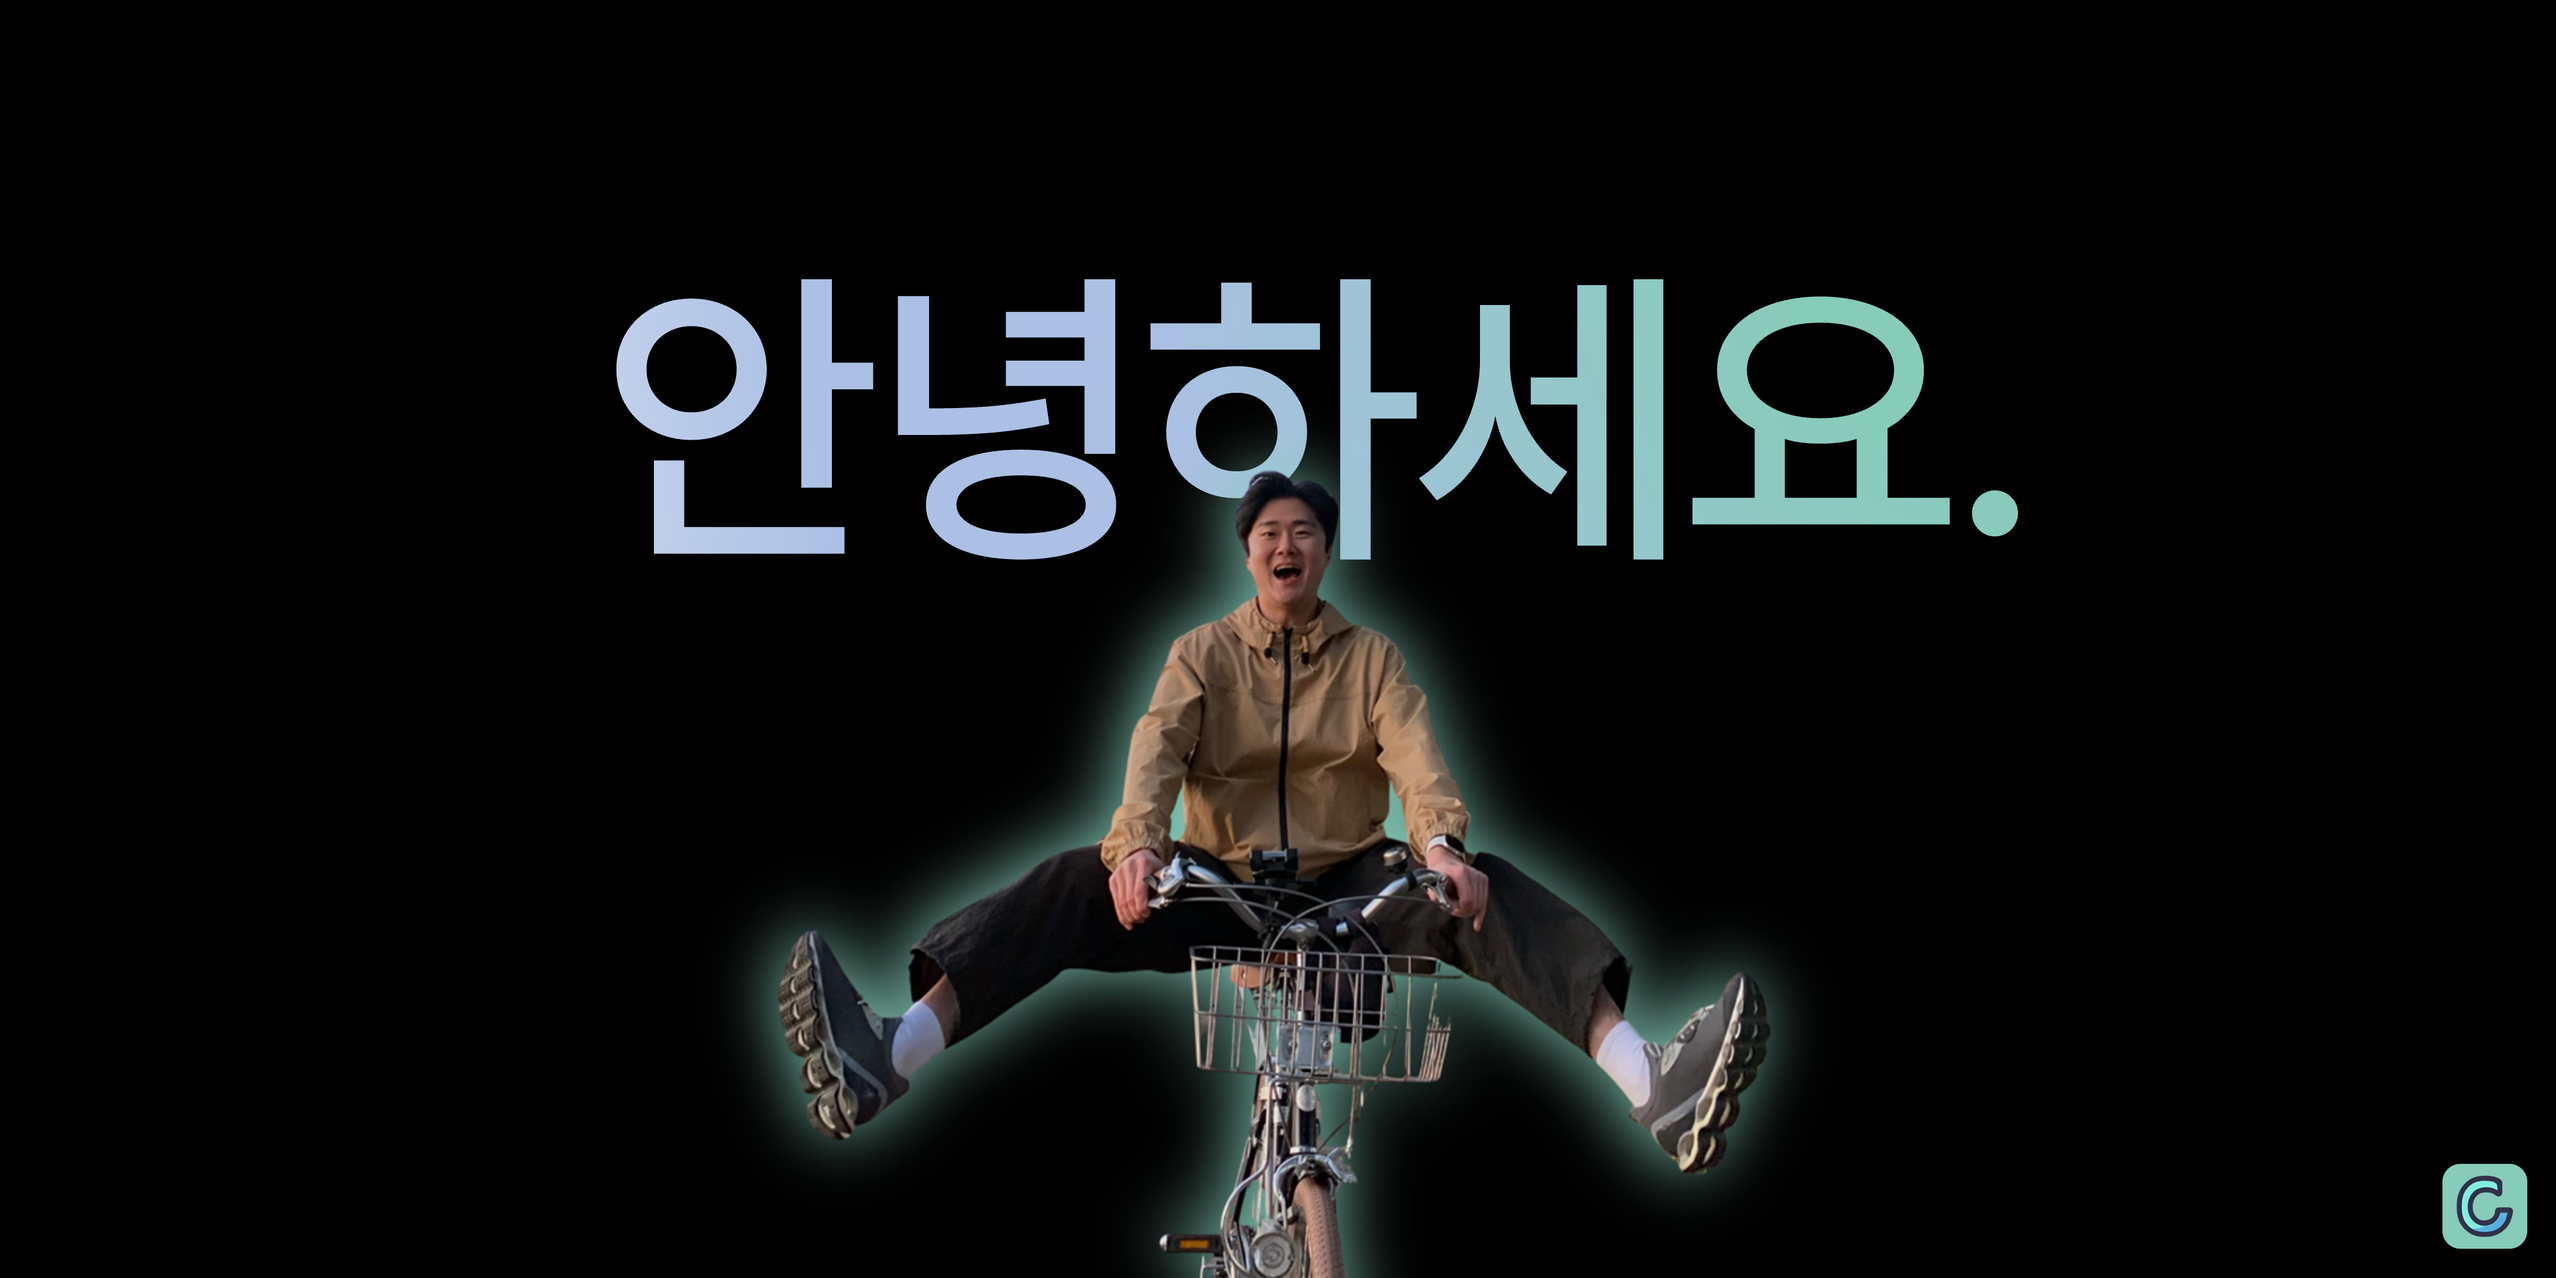
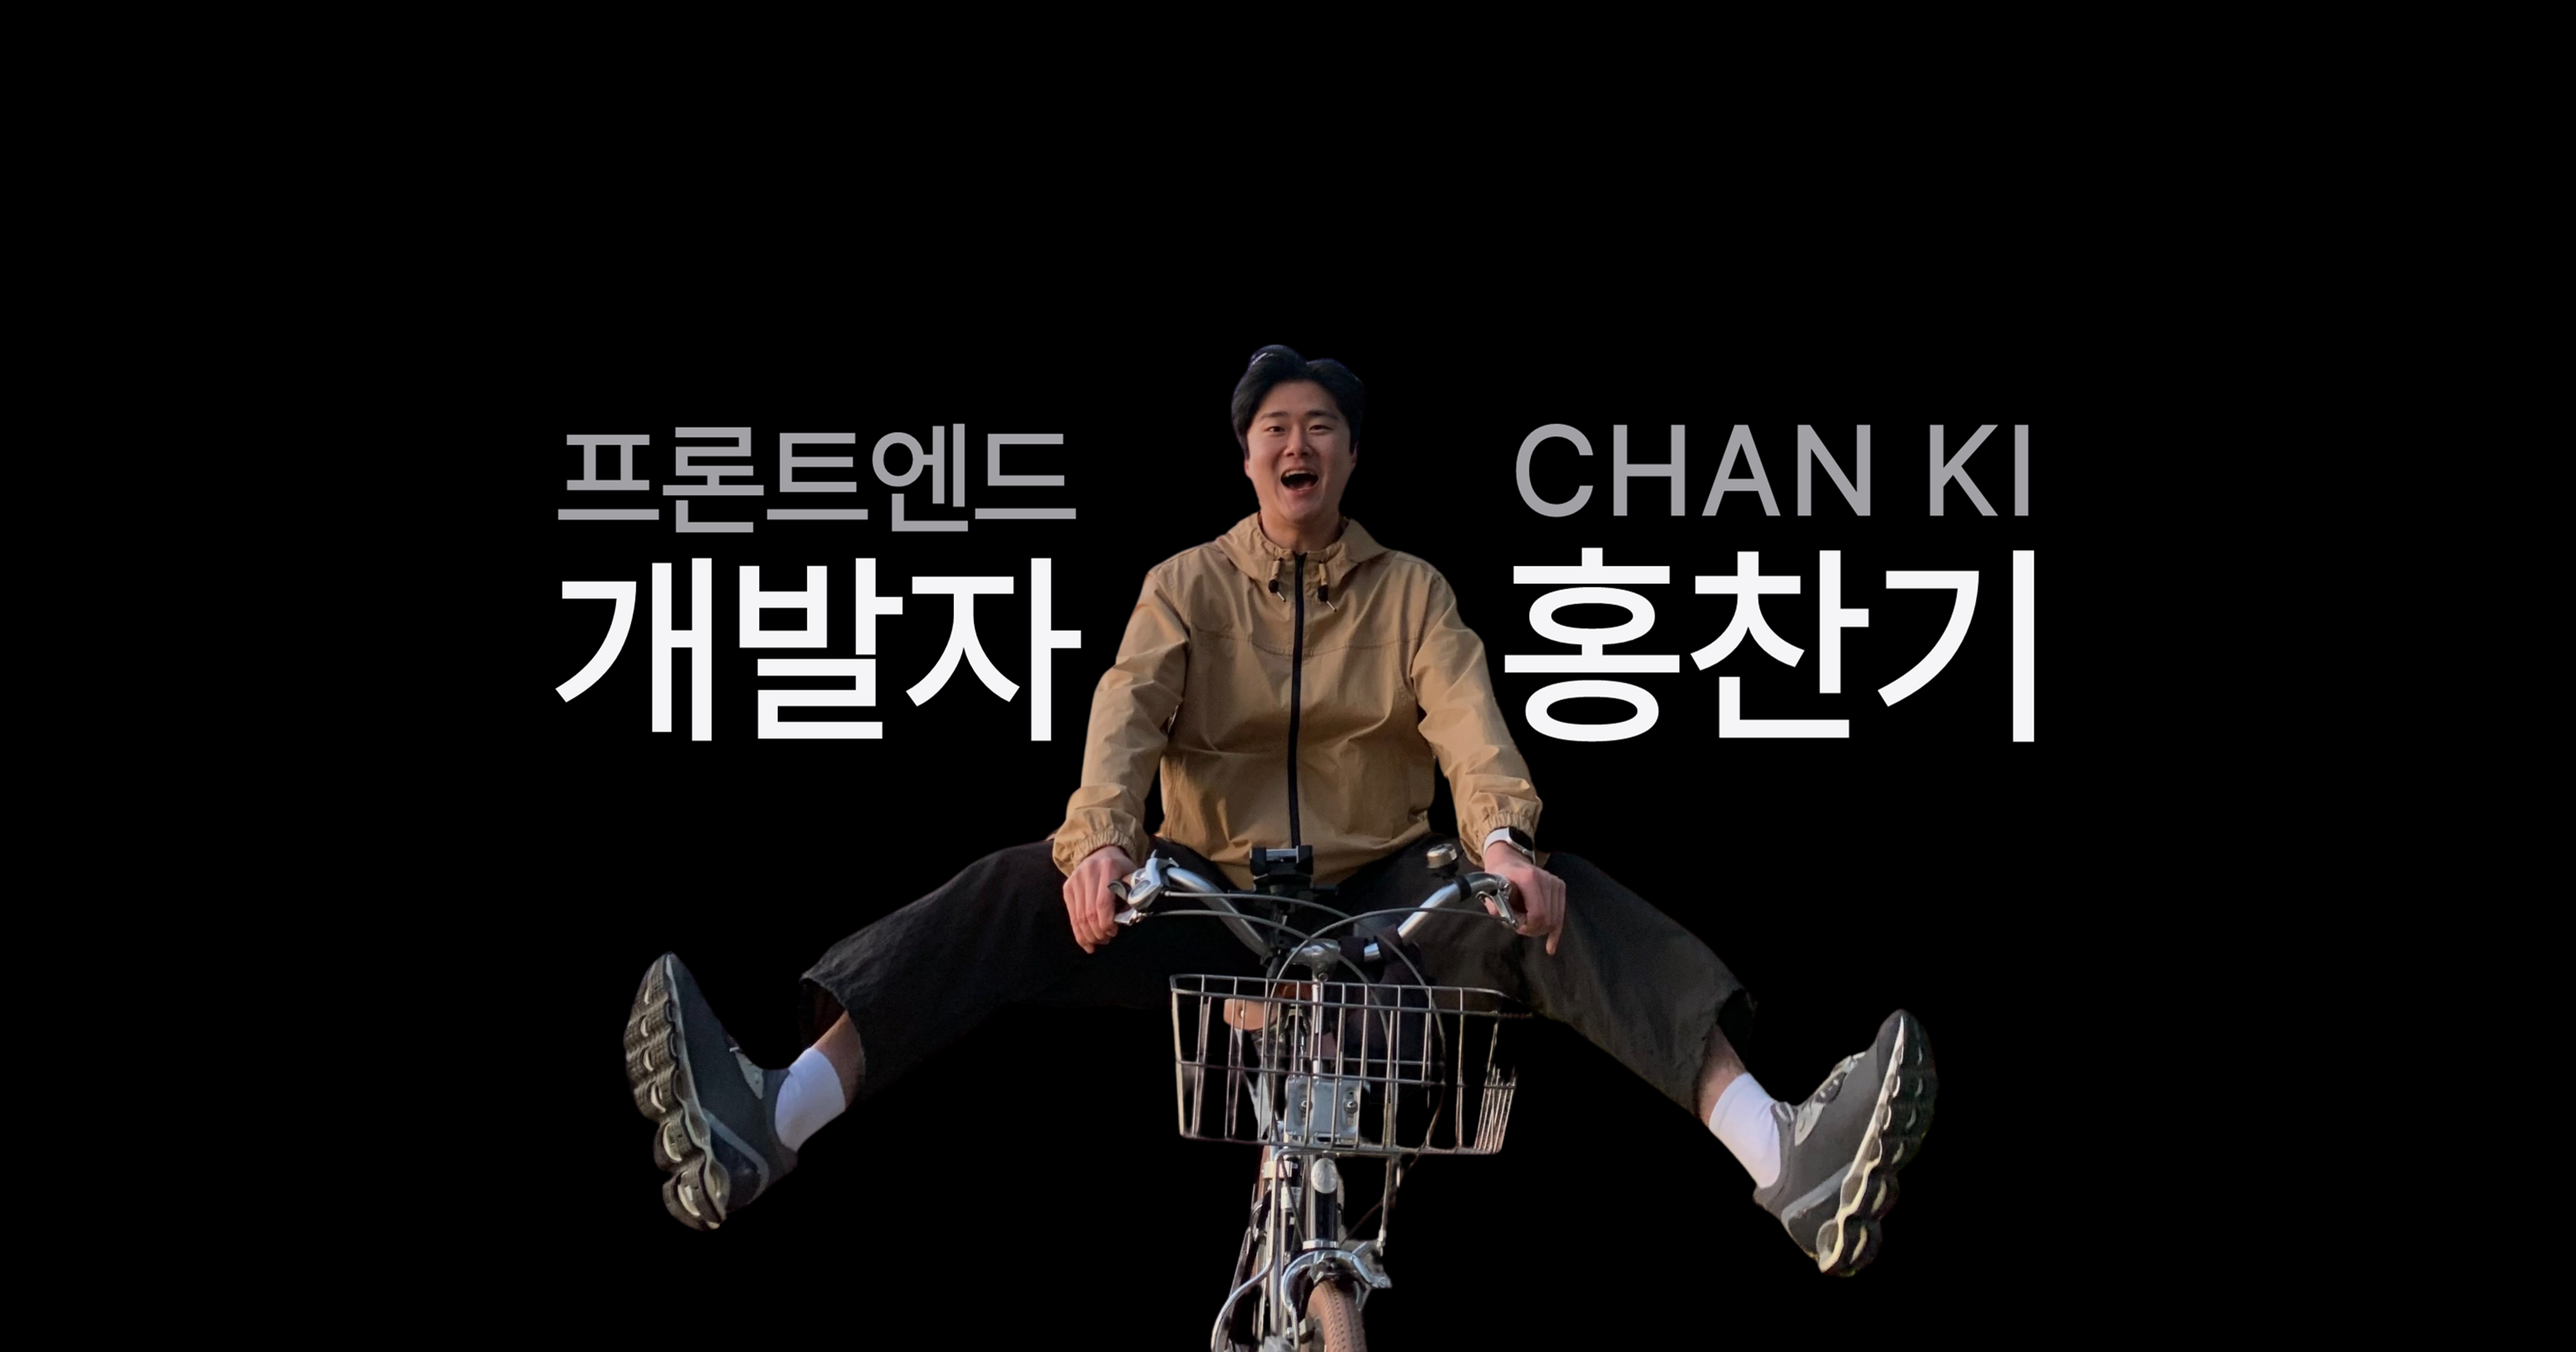
test

Changed region(s): [[0.218, 0.218, 0.8099, 1.0], [0.9345, 0.9033, 0.9968, 0.9968]]

diff --git a/src/page/Home.tsx b/src/page/Home.tsx
@@ -20,24 +20,28 @@ function Home({ headerGlobalNavHeight, headerLocalNavHeight }: { headerGlobalNav
         const helloHeight = headerGlobalNavHeight + headerLocalNavHeight + hello.current.offsetHeight - window.innerHeight; // hello컴포넌트가 끝나는 지점까지의 스크롤롤 높이
         if (window.scrollY < helloHeight * 0.1) {
           helloImg.current.style.top = `${(window.innerHeight - helloImg.current.offsetHeight) / 2}px`;
+          intro.current.style.width = `${profileImg.current.offsetWidth}px`;
           intro.current.style.bottom = `-${intro.current.offsetHeight}px`;
           setHelloImgStyleTag('active-one');
           setProfileImgStyleTag(undefined);
           setIntroStyleTag(undefined);
         } else if (window.scrollY >= helloHeight * 0.1 && window.scrollY < helloHeight * 0.4) {
           helloImg.current.style.top = `${(window.innerHeight - helloImg.current.offsetHeight) / 2}px`;
+          intro.current.style.width = `${profileImg.current.offsetWidth}px`;
           intro.current.style.bottom = `-${intro.current.offsetHeight}px`;
           setHelloImgStyleTag('active-two');
           setProfileImgStyleTag(undefined);
           setIntroStyleTag(undefined);
         } else if (window.scrollY >= helloHeight * 0.4 && window.scrollY < helloHeight) {
           helloImg.current.style.top = `${(window.innerHeight - helloImg.current.offsetHeight) / 2}px`;
+          intro.current.style.width = `${profileImg.current.offsetWidth}px`;
           intro.current.style.bottom = `${profileImg.current.offsetHeight * 0.6}px`;
           setHelloImgStyleTag(undefined);
           setProfileImgStyleTag('active');
           setIntroStyleTag('active');
         } else if (window.scrollY >= helloHeight) {
           helloImg.current.style.top = `${(window.innerHeight - helloImg.current.offsetHeight) / 2}px`;
+          intro.current.style.width = `${profileImg.current.offsetWidth}px`;
           intro.current.style.bottom = `-${intro.current.offsetHeight}px`;
           setHelloImgStyleTag(undefined);
           setProfileImgStyleTag(undefined);
@@ -61,7 +65,7 @@ function Home({ headerGlobalNavHeight, headerLocalNavHeight }: { headerGlobalNav
             <img className={hs('home__hello--intro-frontend')} src='/img/frontend.png' alt='front-end-dev' />
             <img className={hs('home__hello--intro-name')} src='/img/name.png' alt='my-name-chanki' />
           </div>
-          <img className={hs('home__profile--img', profileImgStyleTag)} ref={profileImg} src='/img/Home__profile.png' alt='profile-of-me' />
+          <img className={hs('home__profile--img', profileImgStyleTag)} ref={profileImg} src='/img/profile.png' alt='profile-of-me' />
         </div>
       </div>
     </>

diff --git a/src/style/Home.module.scss b/src/style/Home.module.scss
@@ -10,20 +10,19 @@
   .home__hello--img {
     position: fixed;
     opacity: 0;
-    width: 400px;
+    width: 21vw;
     transition: width 0.5s, opacity 0.5s;
     transition-timing-function: ease;
   }
   .home__hello--img.active-one {
     opacity: 1;
-    width: 400px;
+    width: 21vw;
   }
   .home__hello--img.active-two {
     opacity: 1;
-    width: 1300px;
+    width: 68vw;
   }
   .home__hello--intro {
-    width: 1100px;
     position: fixed;
     opacity: 0;
     display: flex;
@@ -33,10 +32,10 @@
     transition: bottom 0.5s, opacity 0.5s;
     transition-timing-function: ease;
     .home__hello--intro-frontend {
-      width: 400px;
+      height: 26vh;
     }
     .home__hello--intro-name {
-      width: 400px;
+      height: 26vh;
     }
   }
   .home__hello--intro.active {
@@ -45,7 +44,7 @@
   .home__profile--img {
     position: fixed;
     bottom: 0;
-    width: 1100px;
+    height: 90vh;
     opacity: 0;
     transition: opacity 0.7s;
     transition-timing-function: ease;
